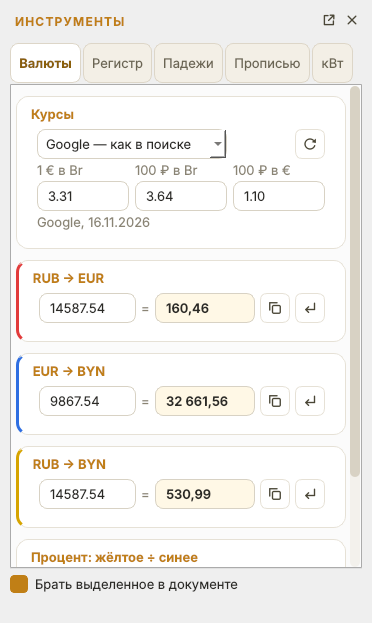
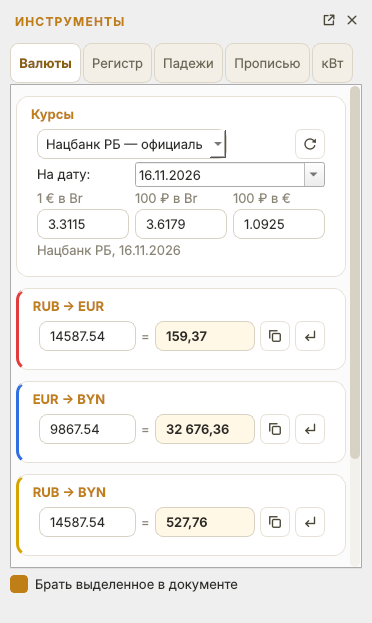
6.14.1: курс валют — Нацбанк РБ по умолчанию, четыре знака после запятой
Claude-Session: https://claude.ai/code/session_01S2yJaDiaX6YUxFfadFNC79

diff --git a/stamp_studio_canon.py b/stamp_studio_canon.py
@@ -557,7 +557,7 @@ QProgressBar::chunk { background: #d69a33; border-radius: 3px; }
 SETTINGS_JSON = os.path.join(LIB_DIR, "settings.json")
 
 # ---------------------------------------------------------------- версия и обновления
-APP_VERSION = "6.14.0"
+APP_VERSION = "6.14.1"
 EDITION = "canon"                 # main — основная, canon — для сканеров Canon
 APP_TITLE = "Stamp Studio" + (" Canon" if EDITION == "canon" else "")
 GITHUB_URL = "https://github.com/alegawhats-del/StampStudio"
@@ -11068,8 +11068,8 @@ class ToolsPanel(QWidget):
         g.setVerticalSpacing(3)
         self.cmb_src = QComboBox()
         self.cmb_src.addItem("Google — как в поиске", "google")
-        self.cmb_src.addItem("Нацбанк РБ — на дату", "nbrb")
-        self.cmb_src.setCurrentIndex(1 if settings_load().get("rates_source") == "nbrb" else 0)
+        self.cmb_src.addItem("Нацбанк РБ — официальный", "nbrb")
+        self.cmb_src.setCurrentIndex(0 if settings_load().get("rates_source") == "google" else 1)
         self.cmb_src.setSizeAdjustPolicy(QComboBox.AdjustToMinimumContentsLengthWithIcon)
         self.cmb_src.setMinimumContentsLength(10)
         self.cmb_src.currentIndexChanged.connect(self._src_changed)
@@ -11173,7 +11173,7 @@ class ToolsPanel(QWidget):
         self.date.setVisible(nb)                    # Google показывает только сегодняшний курс
         self.lbl_date.setVisible(nb)
         st = settings_load()
-        if st.get("rates_source", "google") != self.cmb_src.currentData():
+        if st.get("rates_source", "nbrb") != self.cmb_src.currentData():
             st["rates_source"] = self.cmb_src.currentData()
             settings_save(st)
 
@@ -11194,10 +11194,10 @@ class ToolsPanel(QWidget):
             self.lbl_rates.setText("не получилось взять курс — впишите вручную")
             self.lbl_rates.setToolTip(err)
             return
-        # курс приводится к сотым — как его пишут в документах; расчёт идёт по показанному числу
-        self.rate["eur_byn"].setText(TOOLS.fmt_plain(rates["eur_byn"], 2))
-        self.rate["rub_byn"].setText(TOOLS.fmt_plain(rates["rub_byn"] * 100, 2))
-        self.rate["rub_eur"].setText(TOOLS.fmt_plain(rates["rub_eur"] * 100, 2))
+        # курс — до четырёх знаков, как в ТПО; расчёт идёт по показанному числу
+        self.rate["eur_byn"].setText(TOOLS.fmt_plain(rates["eur_byn"], 4))
+        self.rate["rub_byn"].setText(TOOLS.fmt_plain(rates["rub_byn"] * 100, 4))
+        self.rate["rub_eur"].setText(TOOLS.fmt_plain(rates["rub_eur"] * 100, 4))
         self.lbl_rates.setText(f"{rates['source']}, {rates['date']}")
         self.lbl_rates.setToolTip("")
         self._recalc_currency()

diff --git a/stamp_studio.py b/stamp_studio.py
@@ -557,7 +557,7 @@ QProgressBar::chunk { background: #d69a33; border-radius: 3px; }
 SETTINGS_JSON = os.path.join(LIB_DIR, "settings.json")
 
 # ---------------------------------------------------------------- версия и обновления
-APP_VERSION = "6.14.0"
+APP_VERSION = "6.14.1"
 EDITION = "main"                 # main — основная, canon — для сканеров Canon
 APP_TITLE = "Stamp Studio" + (" Canon" if EDITION == "canon" else "")
 GITHUB_URL = "https://github.com/alegawhats-del/StampStudio"
@@ -11069,8 +11069,8 @@ class ToolsPanel(QWidget):
         g.setVerticalSpacing(3)
         self.cmb_src = QComboBox()
         self.cmb_src.addItem("Google — как в поиске", "google")
-        self.cmb_src.addItem("Нацбанк РБ — на дату", "nbrb")
-        self.cmb_src.setCurrentIndex(1 if settings_load().get("rates_source") == "nbrb" else 0)
+        self.cmb_src.addItem("Нацбанк РБ — официальный", "nbrb")
+        self.cmb_src.setCurrentIndex(0 if settings_load().get("rates_source") == "google" else 1)
         self.cmb_src.setSizeAdjustPolicy(QComboBox.AdjustToMinimumContentsLengthWithIcon)
         self.cmb_src.setMinimumContentsLength(10)
         self.cmb_src.currentIndexChanged.connect(self._src_changed)
@@ -11174,7 +11174,7 @@ class ToolsPanel(QWidget):
         self.date.setVisible(nb)                    # Google показывает только сегодняшний курс
         self.lbl_date.setVisible(nb)
         st = settings_load()
-        if st.get("rates_source", "google") != self.cmb_src.currentData():
+        if st.get("rates_source", "nbrb") != self.cmb_src.currentData():
             st["rates_source"] = self.cmb_src.currentData()
             settings_save(st)
 
@@ -11195,10 +11195,10 @@ class ToolsPanel(QWidget):
             self.lbl_rates.setText("не получилось взять курс — впишите вручную")
             self.lbl_rates.setToolTip(err)
             return
-        # курс приводится к сотым — как его пишут в документах; расчёт идёт по показанному числу
-        self.rate["eur_byn"].setText(TOOLS.fmt_plain(rates["eur_byn"], 2))
-        self.rate["rub_byn"].setText(TOOLS.fmt_plain(rates["rub_byn"] * 100, 2))
-        self.rate["rub_eur"].setText(TOOLS.fmt_plain(rates["rub_eur"] * 100, 2))
+        # курс — до четырёх знаков, как в ТПО; расчёт идёт по показанному числу
+        self.rate["eur_byn"].setText(TOOLS.fmt_plain(rates["eur_byn"], 4))
+        self.rate["rub_byn"].setText(TOOLS.fmt_plain(rates["rub_byn"] * 100, 4))
+        self.rate["rub_eur"].setText(TOOLS.fmt_plain(rates["rub_eur"] * 100, 4))
         self.lbl_rates.setText(f"{rates['source']}, {rates['date']}")
         self.lbl_rates.setToolTip("")
         self._recalc_currency()

diff --git a/stamp_tools.py b/stamp_tools.py
@@ -2,7 +2,7 @@
 """Инструменты для заполнения документов: регистр текста, конвертеры валют,
 сумма прописью в рублях, перевод л.с. ⇄ кВт. Без Qt.
 
-Курсы валют: как показывает Google (по умолчанию) или официальные Нацбанка РБ на дату;
+Курсы валют: официальные Нацбанка РБ на дату (по умолчанию) или как показывает Google;
 любой курс можно вписать вручную.
 """
 import datetime
@@ -120,7 +120,7 @@ def _google(a, b):
         return google_price(r.read().decode("utf-8", "replace"), a, b)
 
 
-def fetch_rates(on_date=None, source="google"):
+def fetch_rates(on_date=None, source="nbrb"):
     """Курсы валют. source: google — как показывает Google сейчас; nbrb — официальный Нацбанка РБ на дату.
     Возвращает {eur_byn, rub_byn, rub_eur, date, source}: сколько второй валюты за 1 единицу первой.
     Бросает RateError, если получить не удалось."""

diff --git a/NOTES.md b/NOTES.md
@@ -1,3 +1,4 @@
+• Инструменты → Валюты: курс берётся с Нацбанка РБ (официальный, на дату) и до четырёх знаков после запятой, как в ТПО; курс Google остался на выбор
 • Новый вид окна: в строке меню — переключатель режимов Документ / Word / Акт осмотра / Конвертер / ИИ и кнопка «Инструменты»; в верхней строке — частые кнопки и «Ещё» с редкими командами
 • Боковая панель раскрывается стрелками » — с подписями и группами «Печать», «Страница», «Скан», «Документы»; « сворачивает до значков, выбор запоминается
 • Масштаб и номер страницы — на плашке под страницей
